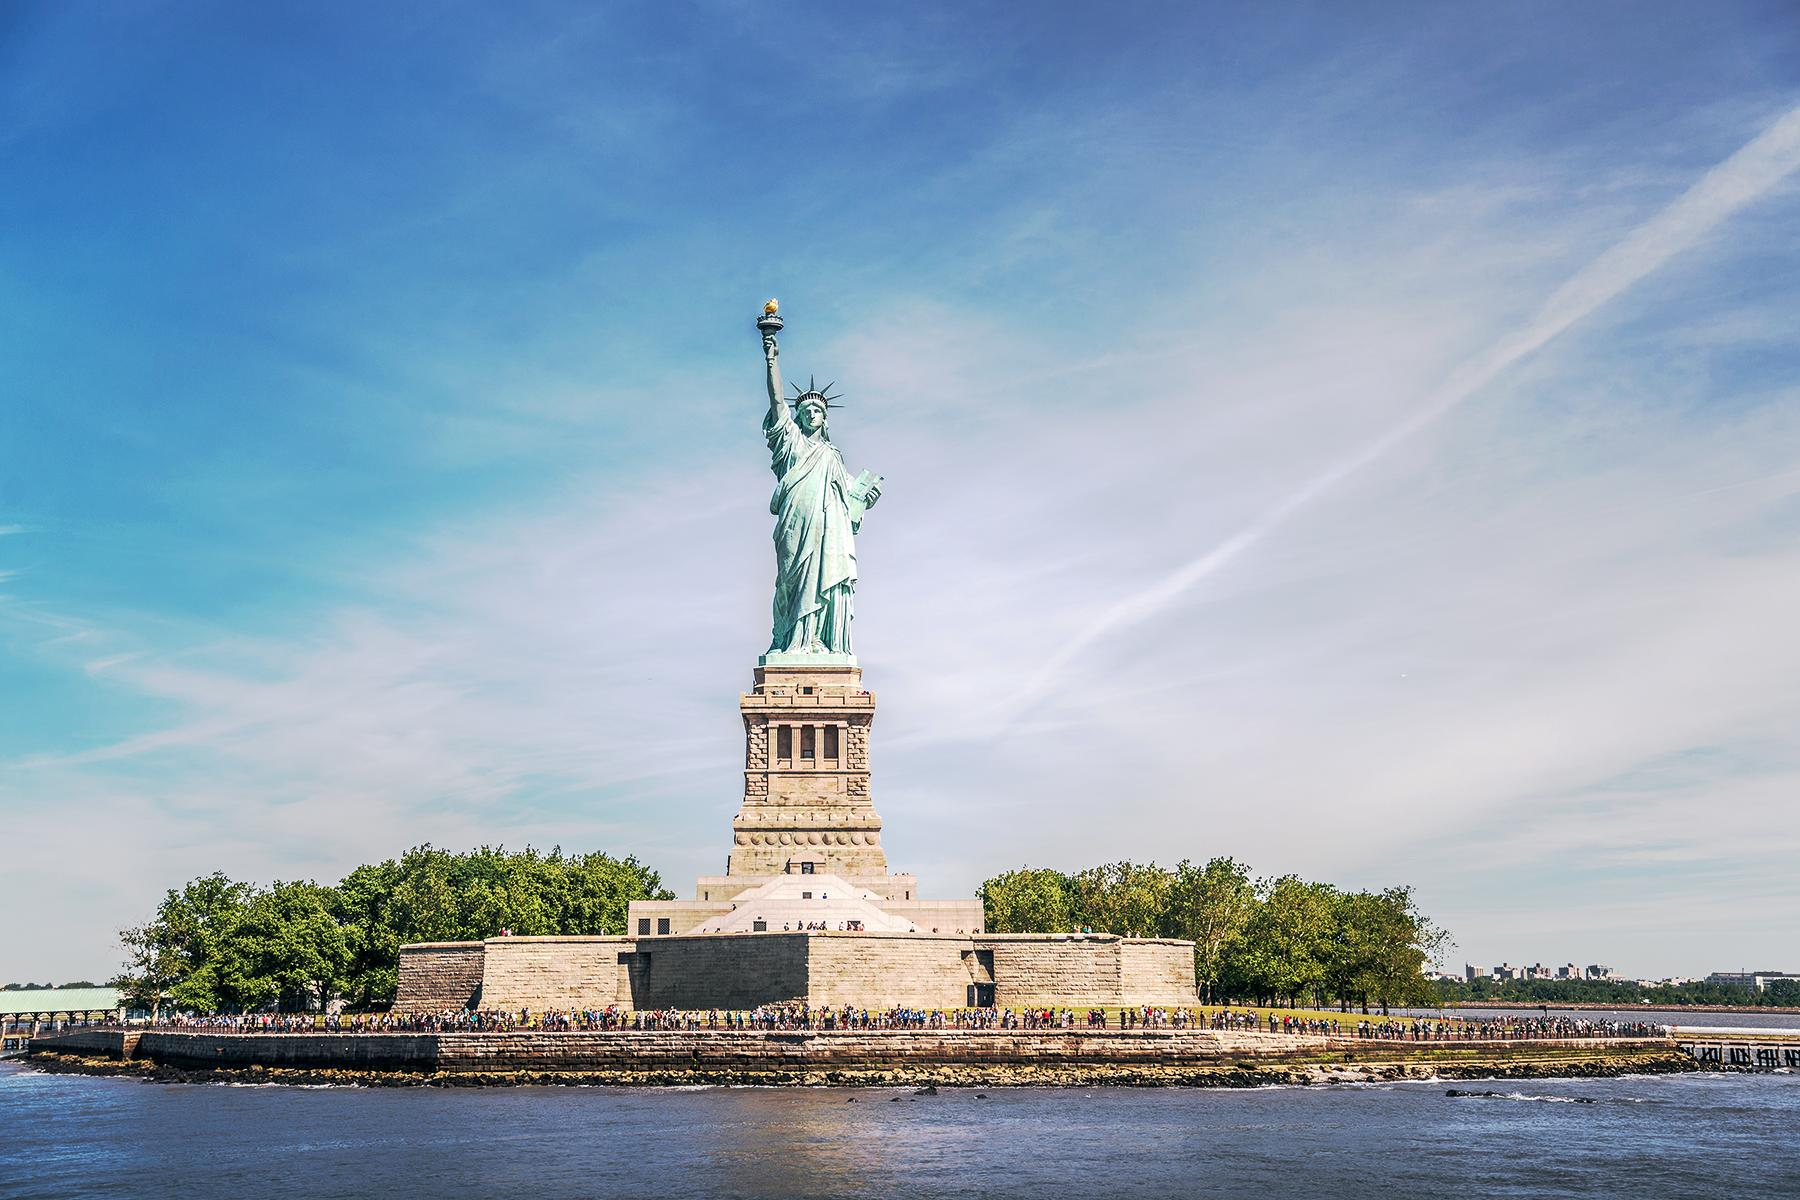
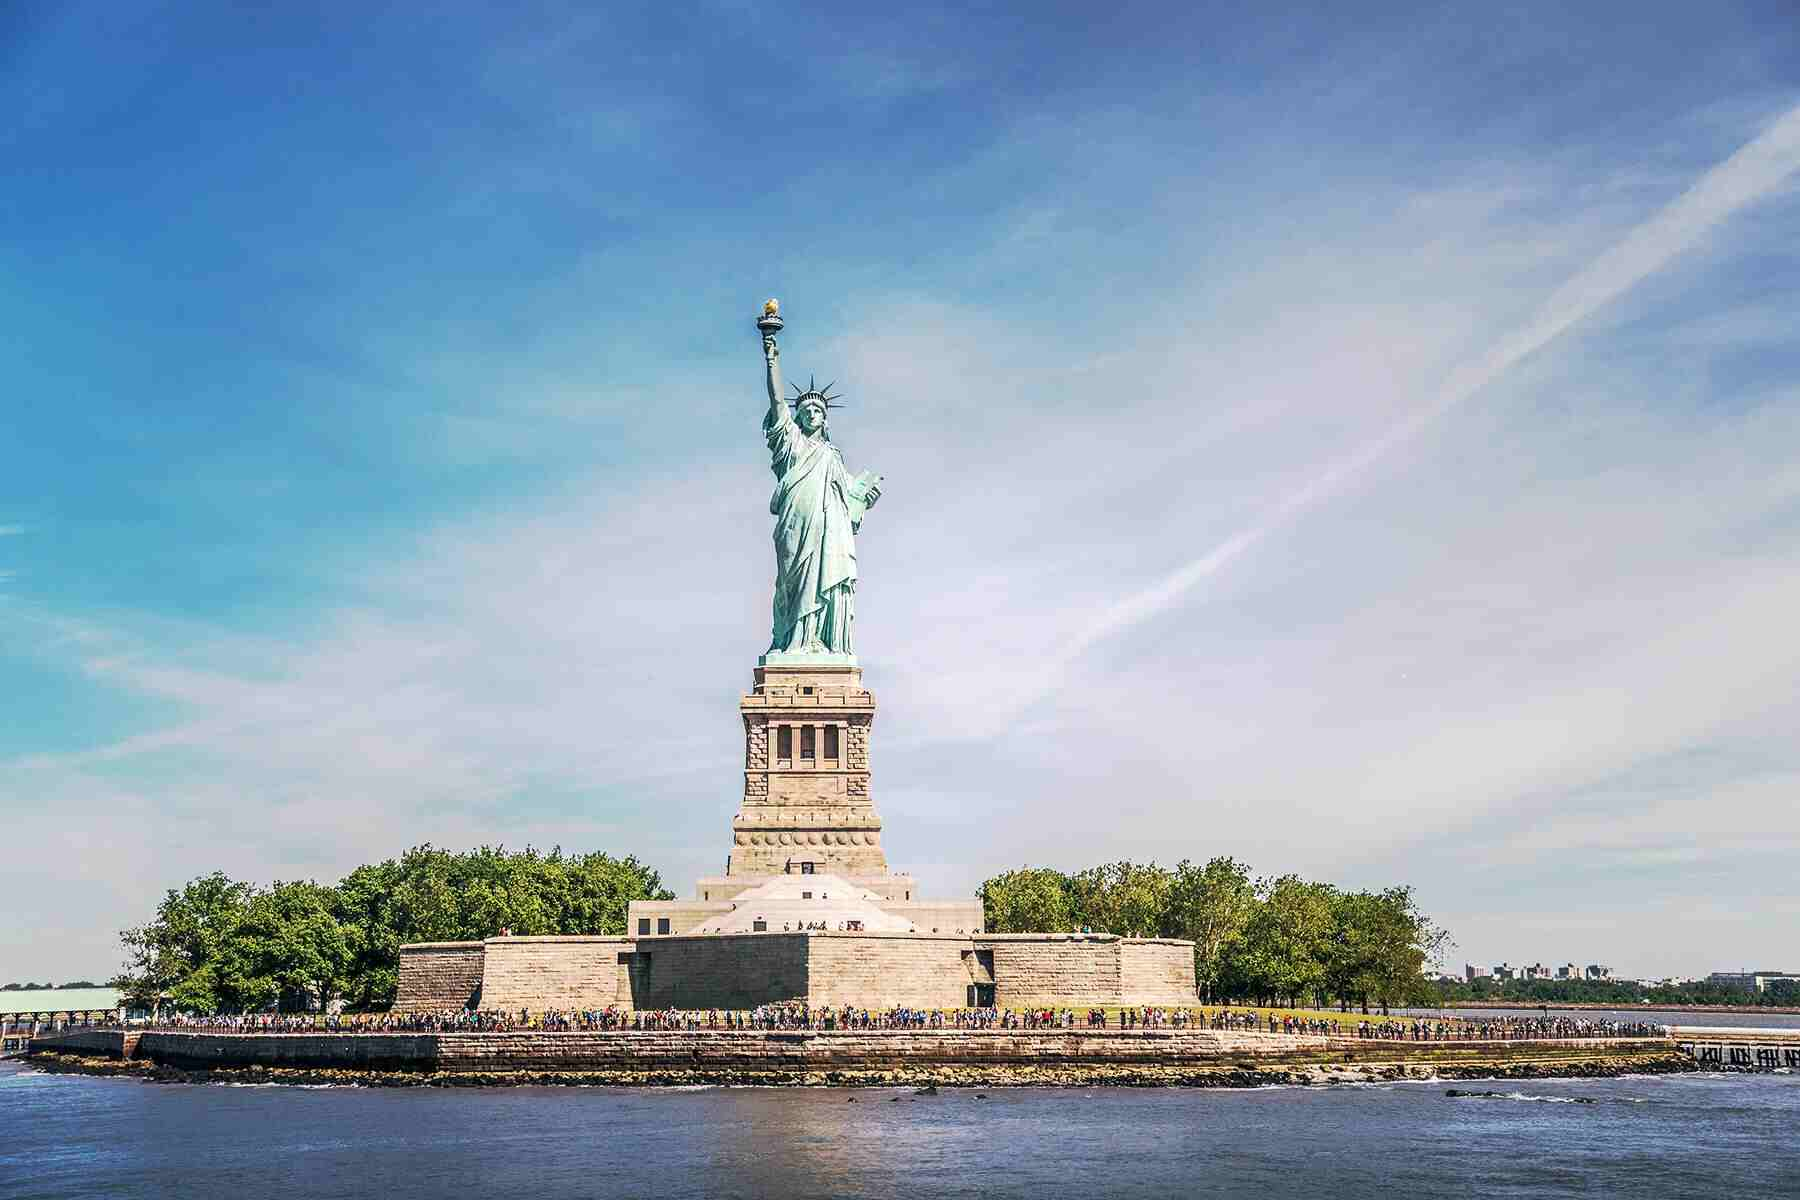
ghg

Changed region(s): [[0.0, 0.7092, 1.0, 0.925], [0.4044, 0.3083, 0.4978, 0.74], [0.4044, 0.2467, 0.4356, 0.3083]]

diff --git a/place.html b/place.html
@@ -20,9 +20,9 @@
     <header>
         <h1>Country Page: United States of America</h1>
         <picture>
-            <source media="(min-width: 800px)" srcset="images/hero-large.webp">
-            <source media="(max-width: 799px)" srcset="images/hero-small.webp">
-            <img src="images/optimized-hero-default.webp" alt="Hero Image for the United States of America" loading="lazy">
+            <source media="(min-width: 800px)" srcset="images/america.jpg">
+            <source media="(max-width: 799px)" srcset="images/america.jpg">
+            <img src="images/america.jpg" alt="Hero Image for the United States of America" loading="lazy">
         </picture>
     </header>
 

diff --git a/styles/main.css b/styles/main.css
@@ -27,7 +27,7 @@ header {
 
 picture img {
     width: 100%;
-    height: auto;
+    height: 450px;
 }
 
 /* Weather Section */
